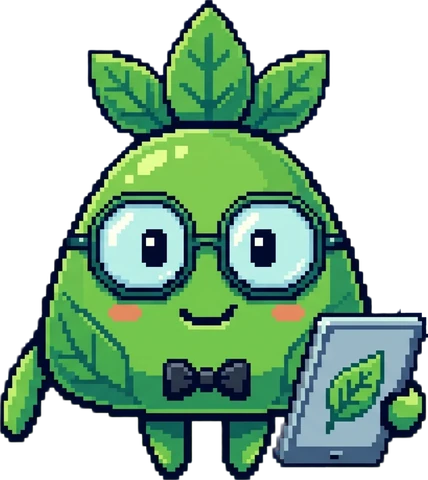
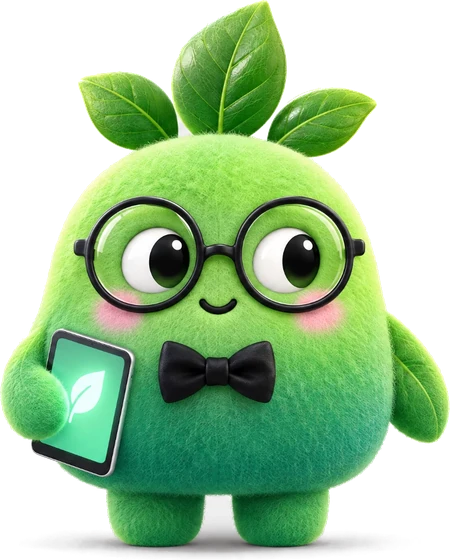
Replace pixel Neeo with the 3D render and fit it to every screen size
- The sprite is now the 3D plush render (background removed with a
  feathered edge so the fur blends; the floor shadow dropped in favour
  of the bot's own hop shadow), exported at 560px tall.
- Eyes are redrawn to match the render: glossy shaded eyeballs, large
  oval pupils with the green floor reflection and a highlight, a fur
  eyelid for blinks, and a soft lens glare. Pupils still follow the
  cursor. The tablet glow is re-aligned to the new screen.
- Full size (200px) only from 1280px wide, where the corner is empty;
  smaller and tucked beside the headline below that, so it never covers
  the copy. Speech bubbles sit to its left, clear of the header.

diff --git a/components/NeeoBot.tsx b/components/NeeoBot.tsx
@@ -4,19 +4,19 @@ import { useEffect, useRef, useState, type RefObject } from "react";
 import { AnimatePresence, animate, motion, useReducedMotion } from "framer-motion";
 import { openBookCall } from "@/lib/book-call";
 
-// Neeo, the studio's pixel-art AI bot. The artwork is one sprite; the parts
-// that make it feel alive are layered over it: pupils that follow the cursor,
+// Neeo, the studio's 3D AI bot. The render is one sprite; the parts that
+// make it feel alive are layered over it: pupils that follow the cursor,
 // blinks, a glowing tablet, speech bubbles, and a body that breathes, hops
 // around its corner, and turns to face where it's going.
 
 // Overlay positions as % of the sprite, measured from the artwork.
+// The eyeballs are redrawn over the render so the pupils can move; boxes are
+// % of the sprite, measured from the artwork.
 const EYES = [
-  { white: { x: 24.3, y: 43.4, w: 18.6, h: 15.8 }, pupil: { x: 33.2, y: 47.8, w: 5.7, h: 7.8 } },
-  { white: { x: 53.7, y: 43.4, w: 18.5, h: 15.8 }, pupil: { x: 58.6, y: 47.8, w: 5.7, h: 7.8 } },
+  { x: 26.9, y: 40.6, w: 15.5, h: 11.7 },
+  { x: 56.2, y: 40.6, w: 14.9, h: 11.7 },
 ];
-const EYE_WHITE = "#b9eee7";
-const PUPIL = "#01092d";
-const TABLET = { x: 66, y: 66, w: 30, h: 33 };
+const TABLET = { x: 1, y: 60.5, w: 26.6, h: 22.2 };
 
 const LINES = [
   "Hi, I'm Neeo.",
@@ -80,15 +80,15 @@ export function NeeoBot({
       const w = root.offsetWidth;
       const len = Math.hypot(dx, dy) || 1;
       const reach = Math.min(1, len / 240);
-      const px = (dx / len) * reach * w * 0.026 * facing;
-      const py = (dy / len) * reach * w * 0.024;
+      const px = (dx / len) * reach * w * 0.03 * facing;
+      const py = (dy / len) * reach * w * 0.02;
       root.style.setProperty("--look-x", `${px.toFixed(2)}px`);
       root.style.setProperty("--look-y", `${py.toFixed(2)}px`);
     };
 
     const onPointerMove = (e: PointerEvent) => {
       const r = root.getBoundingClientRect();
-      look(e.clientX - (r.left + r.width * 0.48), e.clientY - (r.top + r.height * 0.52));
+      look(e.clientX - (r.left + r.width * 0.49), e.clientY - (r.top + r.height * 0.45));
     };
     if (fine) window.addEventListener("pointermove", onPointerMove, { passive: true });
 
@@ -208,7 +208,7 @@ export function NeeoBot({
               animate={{ opacity: 1, y: 0, scale: 1 }}
               exit={{ opacity: 0, y: 4 }}
               transition={{ duration: 0.25 }}
-              className="pointer-events-none absolute bottom-[104%] left-1/2 w-max max-w-[220px] -translate-x-1/2 rounded-[14px_14px_14px_4px] bg-night px-3.5 py-2 text-left text-[13px] font-medium leading-snug text-white shadow-[0_10px_30px_-10px_rgba(5,7,6,0.5)]"
+              className="pointer-events-none absolute right-[88%] top-[6%] w-max max-w-[180px] rounded-[14px_14px_4px_14px] bg-night px-3.5 py-2 text-left text-[13px] font-medium leading-snug text-white shadow-[0_10px_30px_-10px_rgba(5,7,6,0.5)] md:max-w-[220px]"
             >
               {bubble}
             </motion.span>
@@ -222,53 +222,52 @@ export function NeeoBot({
               <img
                 src="/mascot/neeo.webp"
                 alt=""
-                width={428}
-                height={480}
+                width={450}
+                height={560}
                 draggable={false}
                 className="block h-auto w-full select-none"
               />
 
               {EYES.map((eye, i) => (
-                <span key={i} aria-hidden="true">
-                  {/* Paint over the drawn pupil so ours can move. */}
+                <span
+                  key={i}
+                  aria-hidden="true"
+                  className="absolute overflow-hidden rounded-[50%]"
+                  style={{
+                    left: `${eye.x}%`,
+                    top: `${eye.y}%`,
+                    width: `${eye.w}%`,
+                    height: `${eye.h}%`,
+                    background:
+                      "radial-gradient(circle at 42% 34%, #ffffff 0%, #f5f7f6 42%, #dde3e1 78%, #c3cbc8 100%)",
+                    boxShadow: "inset 0 -2px 5px rgba(0,0,0,0.18), 0 0 0 1px rgba(20,40,30,0.25)",
+                  }}
+                >
+                  {/* Glossy oval pupil with the render's green floor reflection
+                      and a top-right highlight; slides with --look-x/y. */}
                   <span
-                    className="absolute"
+                    className="absolute left-1/2 top-1/2 h-[82%] w-[56%] rounded-[50%] transition-transform duration-150 ease-out"
                     style={{
-                      left: `${eye.pupil.x - 0.6}%`,
-                      top: `${eye.pupil.y - 0.6}%`,
-                      width: `${eye.pupil.w + 1.2}%`,
-                      height: `${eye.pupil.h + 1.2}%`,
-                      background: EYE_WHITE,
-                    }}
-                  />
-                  <span
-                    className="absolute transition-transform duration-150 ease-out"
-                    style={{
-                      left: `${eye.pupil.x}%`,
-                      top: `${eye.pupil.y}%`,
-                      width: `${eye.pupil.w}%`,
-                      height: `${eye.pupil.h}%`,
-                      background: PUPIL,
-                      transform: "translate(var(--look-x, 0px), var(--look-y, 0px))",
-                      opacity: blink ? 0 : 1,
+                      transform:
+                        "translate(calc(-50% + var(--look-x, 0px)), calc(-50% + var(--look-y, 0px)))",
+                      background:
+                        "radial-gradient(ellipse at 50% 92%, rgba(70,170,90,0.55) 0%, rgba(70,170,90,0) 45%), radial-gradient(circle at 40% 30%, #2a2a2a 0%, #0a0a0a 55%, #000 100%)",
                     }}
                   >
-                    <span className="absolute left-[18%] top-[14%] h-[26%] w-[30%] bg-white/90" />
+                    <span className="absolute left-[56%] top-[16%] h-[22%] w-[30%] rounded-full bg-white/95" />
                   </span>
+
                   {blink && (
                     <span
-                      className="absolute flex items-center justify-center rounded-full"
-                      style={{
-                        left: `${eye.white.x + eye.white.w * 0.12}%`,
-                        top: `${eye.white.y + eye.white.h * 0.12}%`,
-                        width: `${eye.white.w * 0.76}%`,
-                        height: `${eye.white.h * 0.76}%`,
-                        background: EYE_WHITE,
-                      }}
+                      className="absolute inset-0 flex items-center justify-center rounded-[50%]"
+                      style={{ background: "radial-gradient(circle at 50% 30%, #7bd65a, #4fbf45 70%, #3fae3c)" }}
                     >
-                      <span className="h-[12%] w-[60%] rounded-full" style={{ background: PUPIL }} />
+                      <span className="mt-[12%] h-[34%] w-[70%] rounded-b-full border-b-[3px] border-[#123321]" />
                     </span>
                   )}
+
+                  {/* Lens glare, as if behind the glasses. */}
+                  <span className="pointer-events-none absolute -left-[10%] top-[6%] h-[30%] w-[60%] -rotate-[24deg] rounded-full bg-white/25 blur-[1px]" />
                 </span>
               ))}
 

diff --git a/components/AiSection.tsx b/components/AiSection.tsx
@@ -78,8 +78,10 @@ export function AiSection() {
   const copyRef = useRef<HTMLParagraphElement>(null);
   return (
     <section id="ai" className="relative bg-page py-28 md:py-40">
-      <div className="pointer-events-none absolute right-4 top-8 z-10 md:right-[5%] md:top-28">
-        <div className="pointer-events-auto w-[100px] md:w-[200px]">
+      {/* Full size only where the corner is genuinely empty (xl); smaller
+          and tucked up beside the headline below that. */}
+      <div className="pointer-events-none absolute right-4 top-6 z-10 md:right-8 md:top-10 xl:right-[5%] xl:top-28">
+        <div className="pointer-events-auto w-[96px] md:w-[124px] xl:w-[200px]">
           <NeeoBot range={240} avoidRef={copyRef} />
         </div>
       </div>
